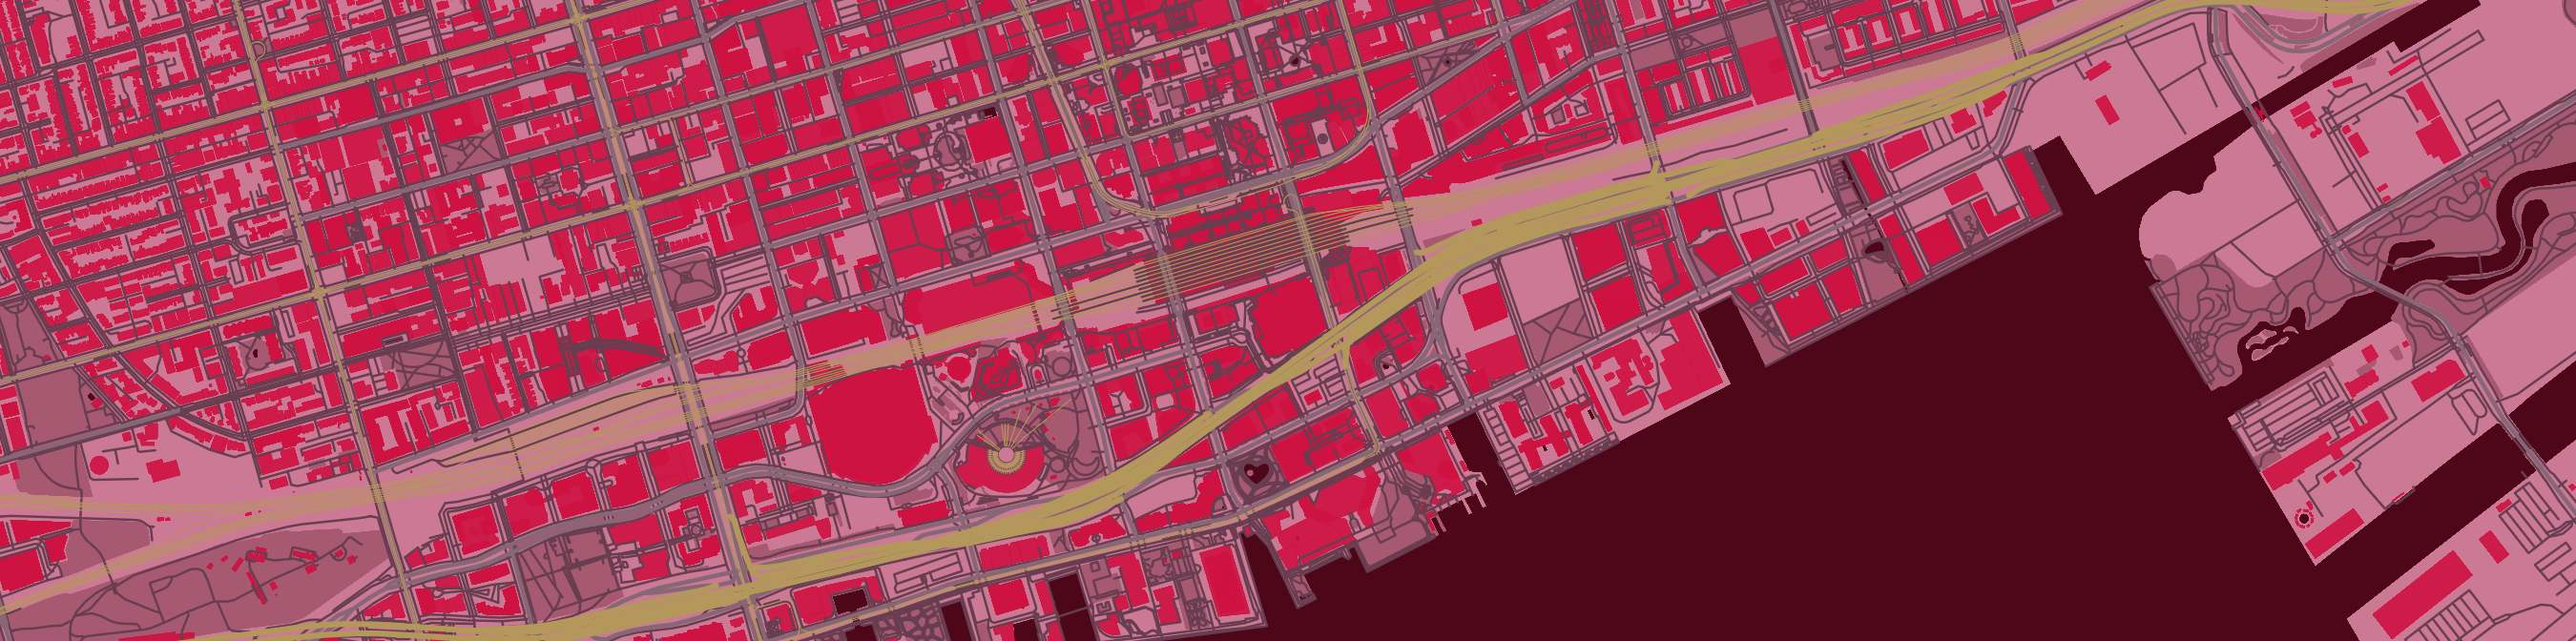
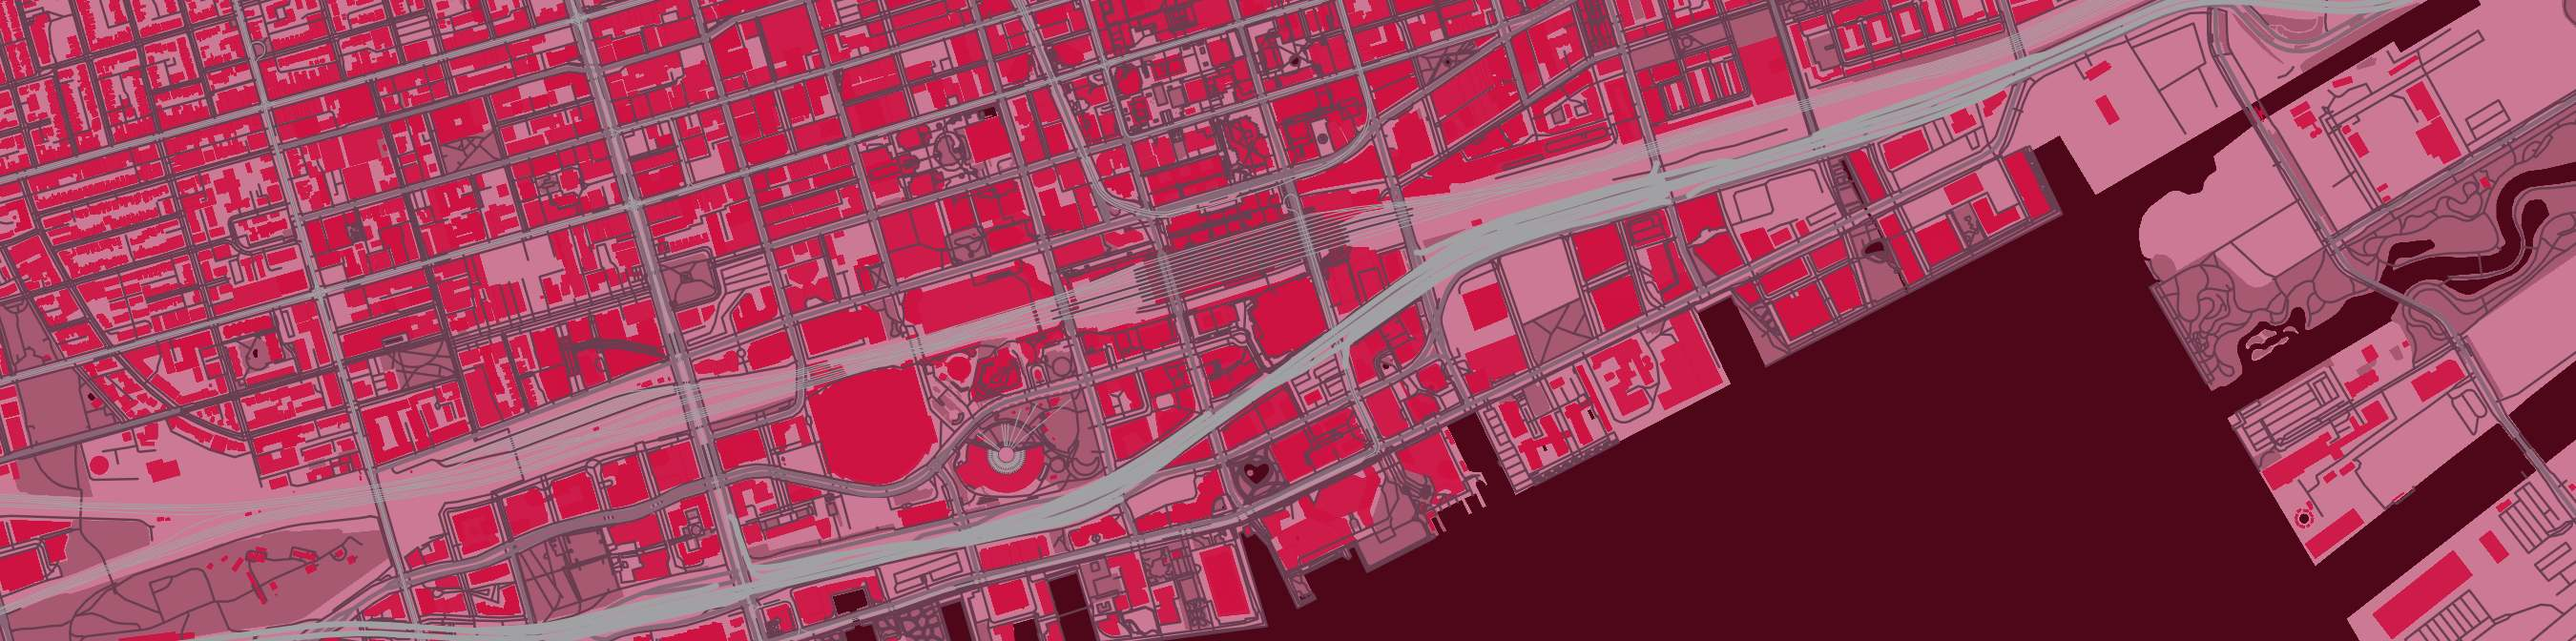
Raptors: black jersey trim and numbers; arena map pin silver instead of gold

diff --git a/src/data/arenaMaps.js b/src/data/arenaMaps.js
@@ -67,7 +67,7 @@ export default {
   POR: { src: por, aspect, baseColor: '#4c0611', focal, pin: '#FFFFFF' },
   SAC: { src: sac, aspect, baseColor: '#221131', focal, pin: '#C4CED4' },
   SAS: { src: sas, aspect, baseColor: '#000000', focal, pin: '#C4CED4' },
-  TOR: { src: tor, aspect, baseColor: '#4e0619', focal, pin: '#B4975A' },
+  TOR: { src: tor, aspect, baseColor: '#4e0619', focal, pin: '#A1A1A4' },
   UTA: { src: uta, aspect, baseColor: '#1e0036', focal, pin: '#79A3DB' },
   WAS: { src: was, aspect, baseColor: '#001023', focal, pin: '#E31837' },
 }
